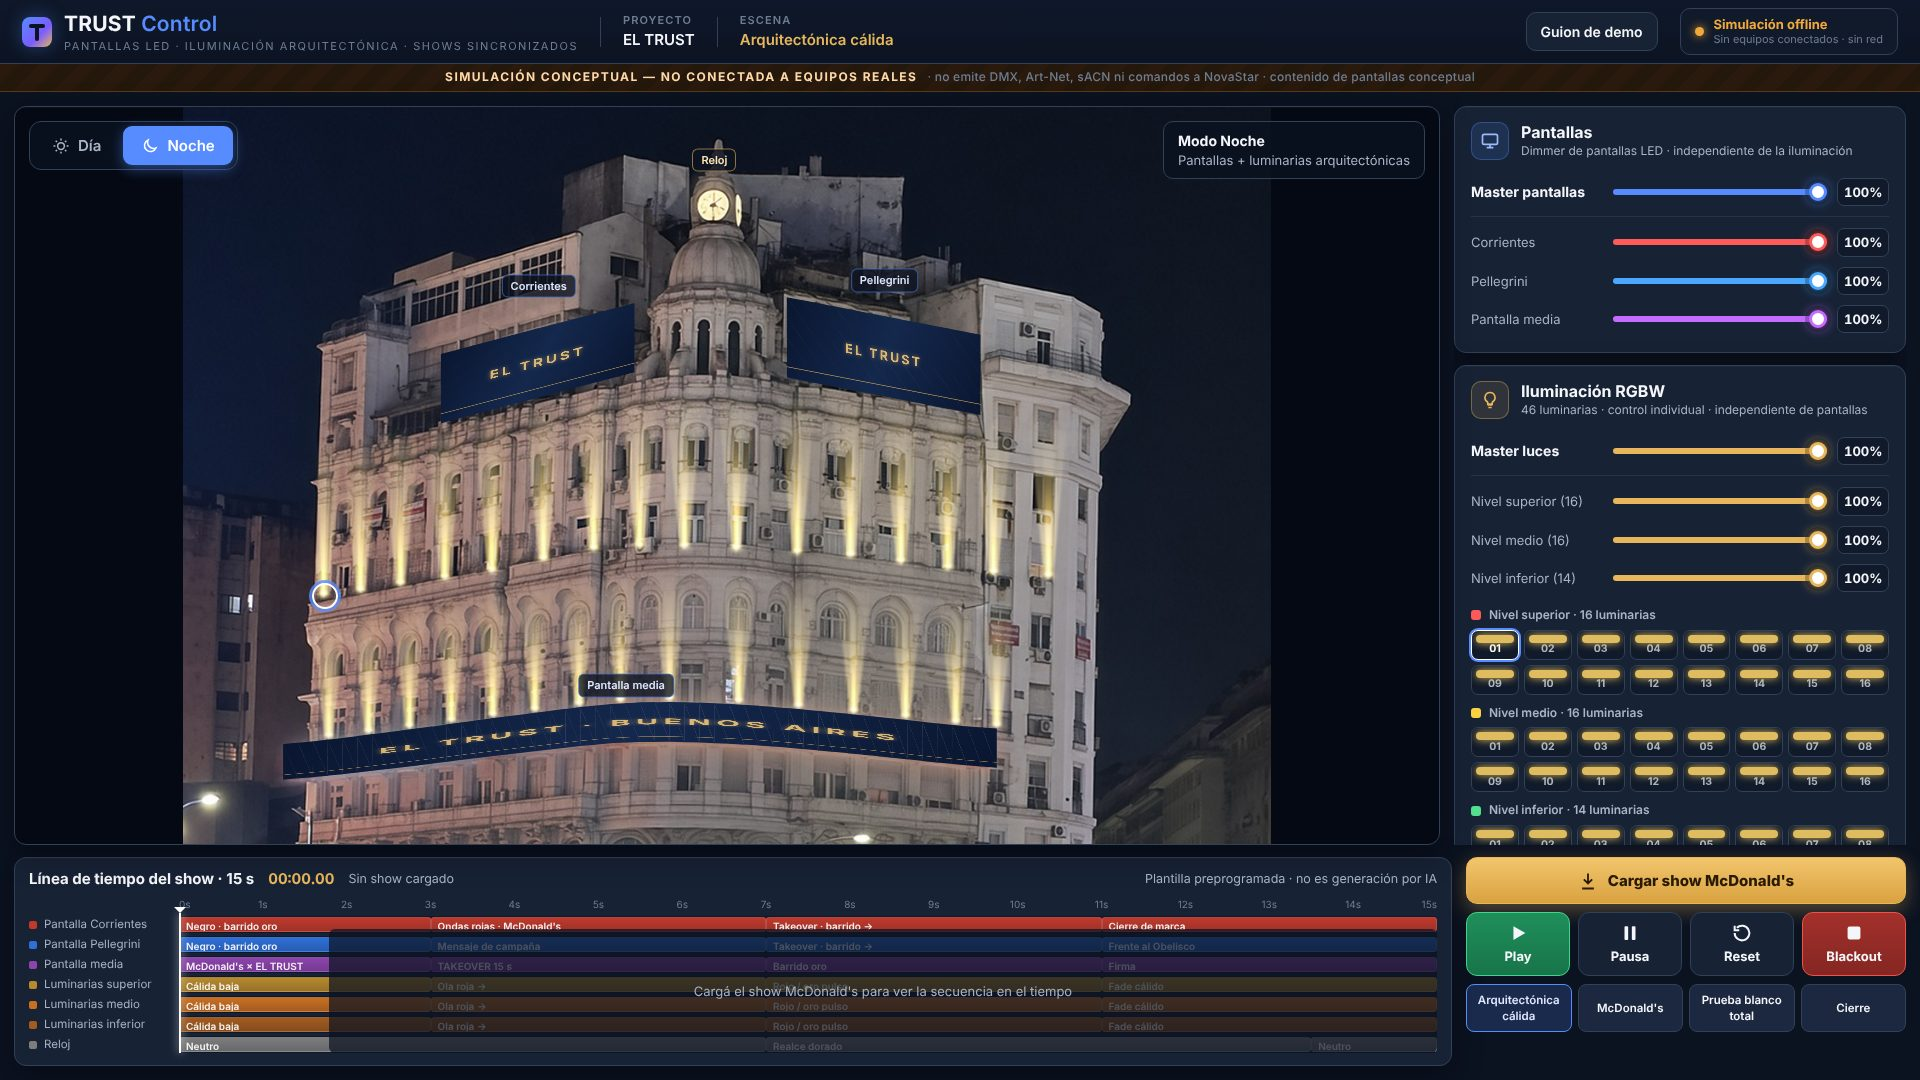
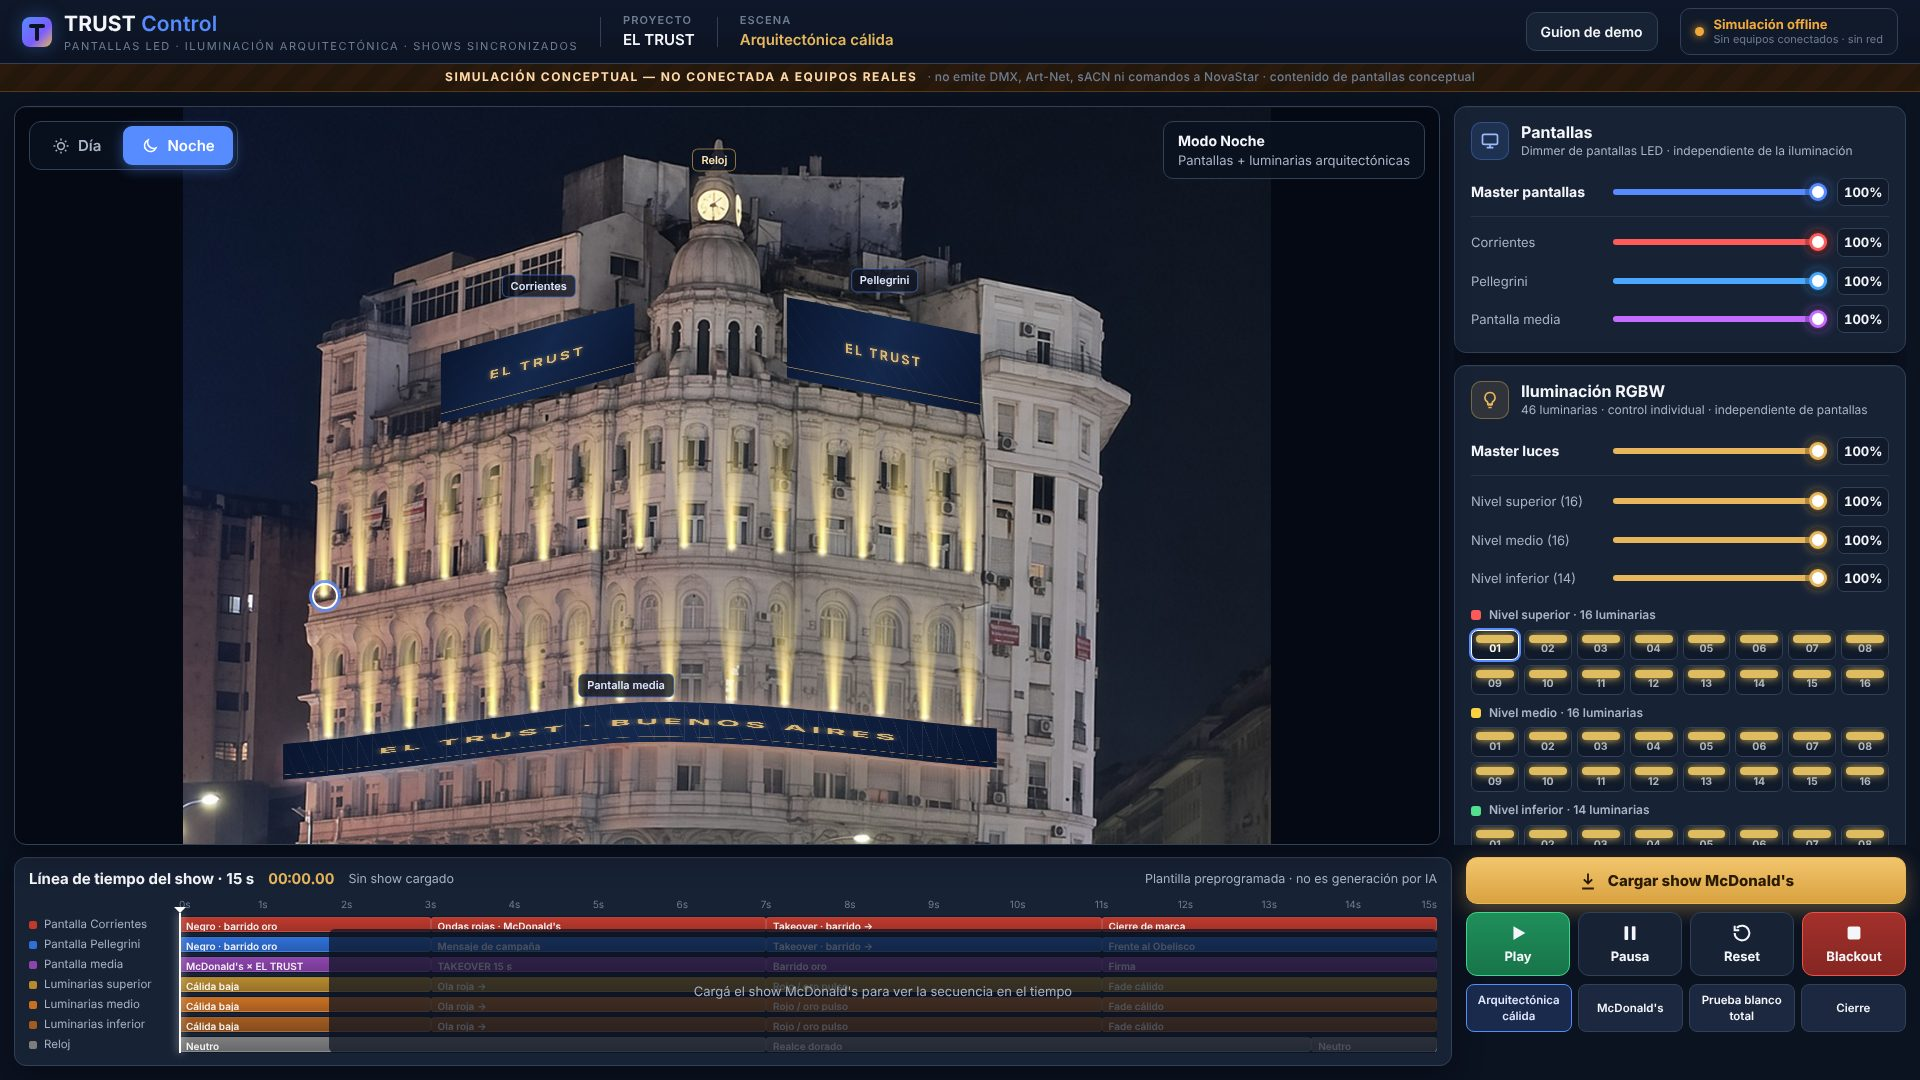
kit(#73): TRUST Control — sin luces sobre la torre blanca y rojo más intenso
Corrección de Fer (14/10):
- La torre blanca de la derecha es otro edificio: las filas roja y amarilla
  terminan en la unión (≈0,722) y la máscara de silueta corta en 0,730.
- Luz de color: capa de tinte (multiplicar) donde pega el haz, además del
  brillo; el rojo ya no se ve lavado sobre la fachada clara.
- prueba_control.py 40/40 OK; capturas y paquete offline regenerados.

Claude-Session: https://claude.ai/code/session_01DXe61vLeD4dUBhNGGR4spu

Changed region(s): [[0.375, 0.3972, 0.5625, 0.6722]]

diff --git a/kit/mcd-73/control/app.js b/kit/mcd-73/control/app.js
@@ -28,6 +28,8 @@
   // ---------- lienzos ----------
   const lienzo = $('lienzo'), ctx = lienzo.getContext('2d');
   const capaLuz = document.createElement('canvas'), lctx = capaLuz.getContext('2d');
+  const capaTinte = document.createElement('canvas'), tctx = capaTinte.getContext('2d');
+  let ultimaInfoTinte = 0;
   const CONT = {
     corrientes: mk(576, 288),
     pellegrini: mk(720, 288),
@@ -43,7 +45,7 @@
     lienzo.style.width = cssW + 'px'; lienzo.style.height = cssH + 'px';
     const pw = Math.round(cssW * dpr), ph = Math.round(cssH * dpr);
     if (lienzo.width !== pw || lienzo.height !== ph) {
-      lienzo.width = pw; lienzo.height = ph; capaLuz.width = pw; capaLuz.height = ph;
+      lienzo.width = pw; lienzo.height = ph; capaLuz.width = pw; capaLuz.height = ph; capaTinte.width = pw; capaTinte.height = ph;
     }
     ubicarEtiquetas();
     pedirCuadro();
@@ -188,9 +190,10 @@
     return out;
   }
   // Silueta de la fachada sobre ESTA foto (bordes medidos con grilla de 0,02): la luz no puede salir del edificio.
-  const SILUETA = [[0.124, 0.30], [0.843, 0.30], [0.868, 0.40], [0.843, 0.42], [0.837, 1.0], [0.117, 1.0], [0.117, 0.66], [0.124, 0.60]];
+  // El borde derecho es la UNIÓN con la torre blanca (bajada pluvial ≈ 0,727): esa torre es otro edificio (corrección de Fer, 14/10).
+  const SILUETA = [[0.124, 0.30], [0.730, 0.30], [0.730, 1.0], [0.117, 1.0], [0.117, 0.66], [0.124, 0.60]];
   // Haz de bañador ("wall grazer") hacia arriba: nace angosto y brillante en el equipo y se abre barriendo la fachada.
-  function cono(c, x, y, sep, alto, col, k) {
+  function cono(c, x, y, sep, alto, col, k, soloHaz) {
     const b = sep * 0.2, t = sep * 0.82, h = sep * alto;
     const [r, g, bl] = col;
     const tramo = (ancho0, ancho1, a0, a1, a2) => {
@@ -202,6 +205,7 @@
       c.quadraticCurveTo(x, y - h * 1.07, x + ancho1 / 2, y - h); c.lineTo(x + ancho0 / 2, y); c.closePath(); c.fill();
     };
     tramo(b, t, 0.95, 0.72, 0.3);               // haz
+    if (soloHaz) return;
     tramo(b * 0.45, t * 0.34, 0.9, 0.6, 0.18);  // núcleo más intenso
     const sp = c.createRadialGradient(x, y, 0, x, y, sep * 0.22);   // derrame corto sobre la cornisa
     sp.addColorStop(0, `rgba(${r},${g},${bl},${0.55 * k})`); sp.addColorStop(1, `rgba(${r},${g},${bl},0)`);
@@ -211,30 +215,41 @@
     c.fillStyle = hs; c.beginPath(); c.arc(x, y, sep * 0.08, 0, Math.PI * 2); c.fill();
   }
   const ALTO_HAZ = { superior: 3.4, medio: 3.0, inferior: 3.0 };
+  function enmascarar(c, W, H) {
+    // La luz queda DENTRO de la silueta del edificio (no se derrama al cielo, al vecino ni a la torre blanca)…
+    c.globalCompositeOperation = 'destination-in'; c.fillStyle = '#000';
+    c.beginPath(); c.moveTo(SILUETA[0][0] * W, SILUETA[0][1] * H);
+    for (const [x, y] of SILUETA.slice(1)) c.lineTo(x * W, y * H);
+    c.closePath(); c.fill();
+    // …y NUNCA cae sobre los píxeles LED ni sobre la esfera del reloj (máscara de oclusión).
+    c.globalCompositeOperation = 'destination-out';
+    c.beginPath();
+    for (const sup of Object.values(G.superficies)) for (const qd of sup.quads) trazarQuad(c, aPx(qd, W, H));
+    trazarQuad(c, aPx(G.reloj.quad, W, H));
+    c.fill();
+  }
   function dibujarLuces(sal, W, H) {
-    lctx.setTransform(1, 0, 0, 1, 0, 0); lctx.globalCompositeOperation = 'source-over'; lctx.globalAlpha = 1; lctx.filter = 'none';
-    lctx.clearRect(0, 0, W, H);
+    for (const c of [lctx, tctx]) { c.setTransform(1, 0, 0, 1, 0, 0); c.globalCompositeOperation = 'source-over'; c.globalAlpha = 1; c.filter = 'none'; c.clearRect(0, 0, W, H); }
     const sep = separacion(W);
     lctx.globalCompositeOperation = 'lighter';
-    let dibujadas = 0;
+    let dibujadas = 0, conTinte = 0;
     for (const s of sal.luces) {
       const p = puntos[s.id];
       if (!p || s.nivel <= 0.002) continue;
-      const col = rgbDe(s.rgbw).map((v) => Math.round(v * 255));
+      const rgb = rgbDe(s.rgbw), col = rgb.map((v) => Math.round(v * 255));
       cono(lctx, p[0] * W, p[1] * H, sep[s.grupo], ALTO_HAZ[s.grupo], col, s.nivel);
+      // Tinte: con luz de color la fachada TOMA ese color (si no, el rojo sumado a una fachada ya clara se ve lavado).
+      const mx = Math.max(...rgb), sat = mx > 0 ? 1 - Math.min(...rgb) / mx : 0;
+      if (sat > 0.25) {
+        const tin = rgb.map((v) => Math.round(255 * (0.08 + 0.92 * v / mx)));
+        cono(tctx, p[0] * W, p[1] * H, sep[s.grupo], ALTO_HAZ[s.grupo], tin, s.nivel * sat * 0.95, true);
+        conTinte++;
+      }
       dibujadas++;
     }
-    // La luz queda DENTRO de la silueta del edificio (no se derrama al cielo ni al vecino)…
-    lctx.globalCompositeOperation = 'destination-in'; lctx.fillStyle = '#000';
-    lctx.beginPath(); lctx.moveTo(SILUETA[0][0] * W, SILUETA[0][1] * H);
-    for (const [x, y] of SILUETA.slice(1)) lctx.lineTo(x * W, y * H);
-    lctx.closePath(); lctx.fill();
-    // …y NUNCA cae sobre los píxeles LED ni sobre la esfera del reloj (máscara de oclusión).
-    lctx.globalCompositeOperation = 'destination-out';
-    lctx.beginPath();
-    for (const sup of Object.values(G.superficies)) for (const qd of sup.quads) trazarQuad(lctx, aPx(qd, W, H));
-    trazarQuad(lctx, aPx(G.reloj.quad, W, H));
-    lctx.fill();
+    enmascarar(lctx, W, H);
+    if (conTinte) enmascarar(tctx, W, H);
+    ultimaInfoTinte = conTinte;
     return dibujadas;
   }
 
@@ -261,8 +276,13 @@
 
     // 2. luces
     const n = dibujarLuces(sal, W, H);
-    ctx.globalCompositeOperation = 'screen'; ctx.globalAlpha = dia ? 0.06 : 1;
-    ctx.filter = `blur(${Math.max(0.8, W / 900).toFixed(2)}px)`;   // bordes de haz suaves, como en la realidad
+    const suaveFiltro = `blur(${Math.max(0.8, W / 900).toFixed(2)}px)`;   // bordes de haz suaves, como en la realidad
+    if (!dia && ultimaInfoTinte) {   // 2a. tinte de color (multiplicar): la fachada toma el color del haz
+      ctx.globalCompositeOperation = 'multiply'; ctx.globalAlpha = 1; ctx.filter = suaveFiltro;
+      ctx.drawImage(capaTinte, 0, 0); ctx.filter = 'none';
+    }
+    ctx.globalCompositeOperation = 'screen'; ctx.globalAlpha = dia ? 0.06 : 1;   // 2b. brillo del haz (solo aclara)
+    ctx.filter = suaveFiltro;
     ctx.drawImage(capaLuz, 0, 0);
     ctx.filter = 'none';
     ctx.globalCompositeOperation = 'source-over'; ctx.globalAlpha = 1;

diff --git a/kit/mcd-73/control/luminarias.js b/kit/mcd-73/control/luminarias.js
@@ -3,13 +3,14 @@
 // Sus píxeles NO se copiaron: cada fila se transfirió por referencias de la fachada que se ven en las dos fotos.
 //
 // ROJO · nivel superior (16): sobre la cornisa que corre arriba de las ventanas de arco (borde superior leído sobre esta foto
-//   con grilla de 0,01). Posición a lo largo de la fachada, lineal por tramos entre 4 anclas comunes:
+//   con grilla de 0,01). Posición a lo largo de la fachada, lineal por tramos entre 3 anclas comunes:
 //   borde izquierdo del edificio (anotada x≈100 → 0,118) · eje de la ochava / reloj (625 → 0,4875) ·
-//   unión con la torre blanca (893 → 0,735) · borde derecho de la torre (980 → 0,838).
+//   último círculo (944 → 0,722, la unión con la torre blanca). Corrección de Fer (14/10): la torre blanca de la derecha es
+//   OTRO edificio; ninguna luminaria va sobre ella. La fila termina en la unión (bajada pluvial ≈ 0,727).
 //   La anotada tiene 17 círculos rojos (numerales 5 y 8 repetidos, falta el 13) contra 16 de la leyenda: se mantuvieron los
 //   extremos y la distribución dibujada y se re-muestrearon a 16 equipos por índice. A VALIDAR con Fer.
 // AMARILLO · nivel medio (16): sobre el borde superior de la pantalla media (marquesina), con sus mismas 3 anclas:
-//   extremo izquierdo (87 → 0,092) · punto más alto (620 → 0,4473) · extremo derecho (947 → 0,748).
+//   amarilla 1 (101 → 0,101) · punto más alto (620 → 0,4473) · amarilla 16 (955 → 0,722, antes de la torre blanca).
 // VERDE · nivel inferior (14): sobre los locales de planta baja. Esa franja queda FUERA DE CUADRO en esta foto (corta un piso
 //   debajo de la marquesina): se controlan igual en el panel y el timeline, pero no se dibujan. No se inventa su lugar.
 // Ubicaciones PRELIMINARES de presentación: no son plano de montaje ni verificación física.
@@ -26,28 +27,28 @@ window.LUMINARIAS = {
     'SUP-07': [0.3774, 0.5996],
     'SUP-08': [0.4197, 0.596],
     'SUP-09': [0.4607, 0.5965],
-    'SUP-10': [0.5086, 0.5994],
-    'SUP-11': [0.5645, 0.6043],
-    'SUP-12': [0.6135, 0.6084],
-    'SUP-13': [0.6598, 0.617],
-    'SUP-14': [0.7029, 0.6256],
-    'SUP-15': [0.7449, 0.6321],
-    'SUP-16': [0.7954, 0.6367],
-    'MED-01': [0.1013, 0.859],
-    'MED-02': [0.134, 0.8542],
-    'MED-03': [0.1707, 0.8476],
-    'MED-04': [0.208, 0.8406],
-    'MED-05': [0.2467, 0.8329],
-    'MED-06': [0.2846, 0.8252],
-    'MED-07': [0.3233, 0.818],
-    'MED-08': [0.364, 0.8104],
-    'MED-09': [0.402, 0.8053],
+    'SUP-10': [0.5043, 0.5992],
+    'SUP-11': [0.5488, 0.6029],
+    'SUP-12': [0.5878, 0.6061],
+    'SUP-13': [0.6247, 0.6102],
+    'SUP-14': [0.659, 0.6168],
+    'SUP-15': [0.6906, 0.6231],
+    'SUP-16': [0.722, 0.6292],
+    'MED-01': [0.101, 0.859],
+    'MED-02': [0.1337, 0.8543],
+    'MED-03': [0.1704, 0.8477],
+    'MED-04': [0.2078, 0.8407],
+    'MED-05': [0.2465, 0.8329],
+    'MED-06': [0.2845, 0.8253],
+    'MED-07': [0.3232, 0.818],
+    'MED-08': [0.3639, 0.8105],
+    'MED-09': [0.4019, 0.8053],
     'MED-10': [0.4473, 0.8032],
-    'MED-11': [0.5108, 0.8067],
-    'MED-12': [0.5659, 0.813],
-    'MED-13': [0.6165, 0.8201],
-    'MED-14': [0.6643, 0.8275],
-    'MED-15': [0.7103, 0.8348],
-    'MED-16': [0.748, 0.8394],
+    'MED-11': [0.5039, 0.8061],
+    'MED-12': [0.5531, 0.8113],
+    'MED-13': [0.5982, 0.8174],
+    'MED-14': [0.6408, 0.8237],
+    'MED-15': [0.6818, 0.8304],
+    'MED-16': [0.722, 0.8364],
   },
 };
